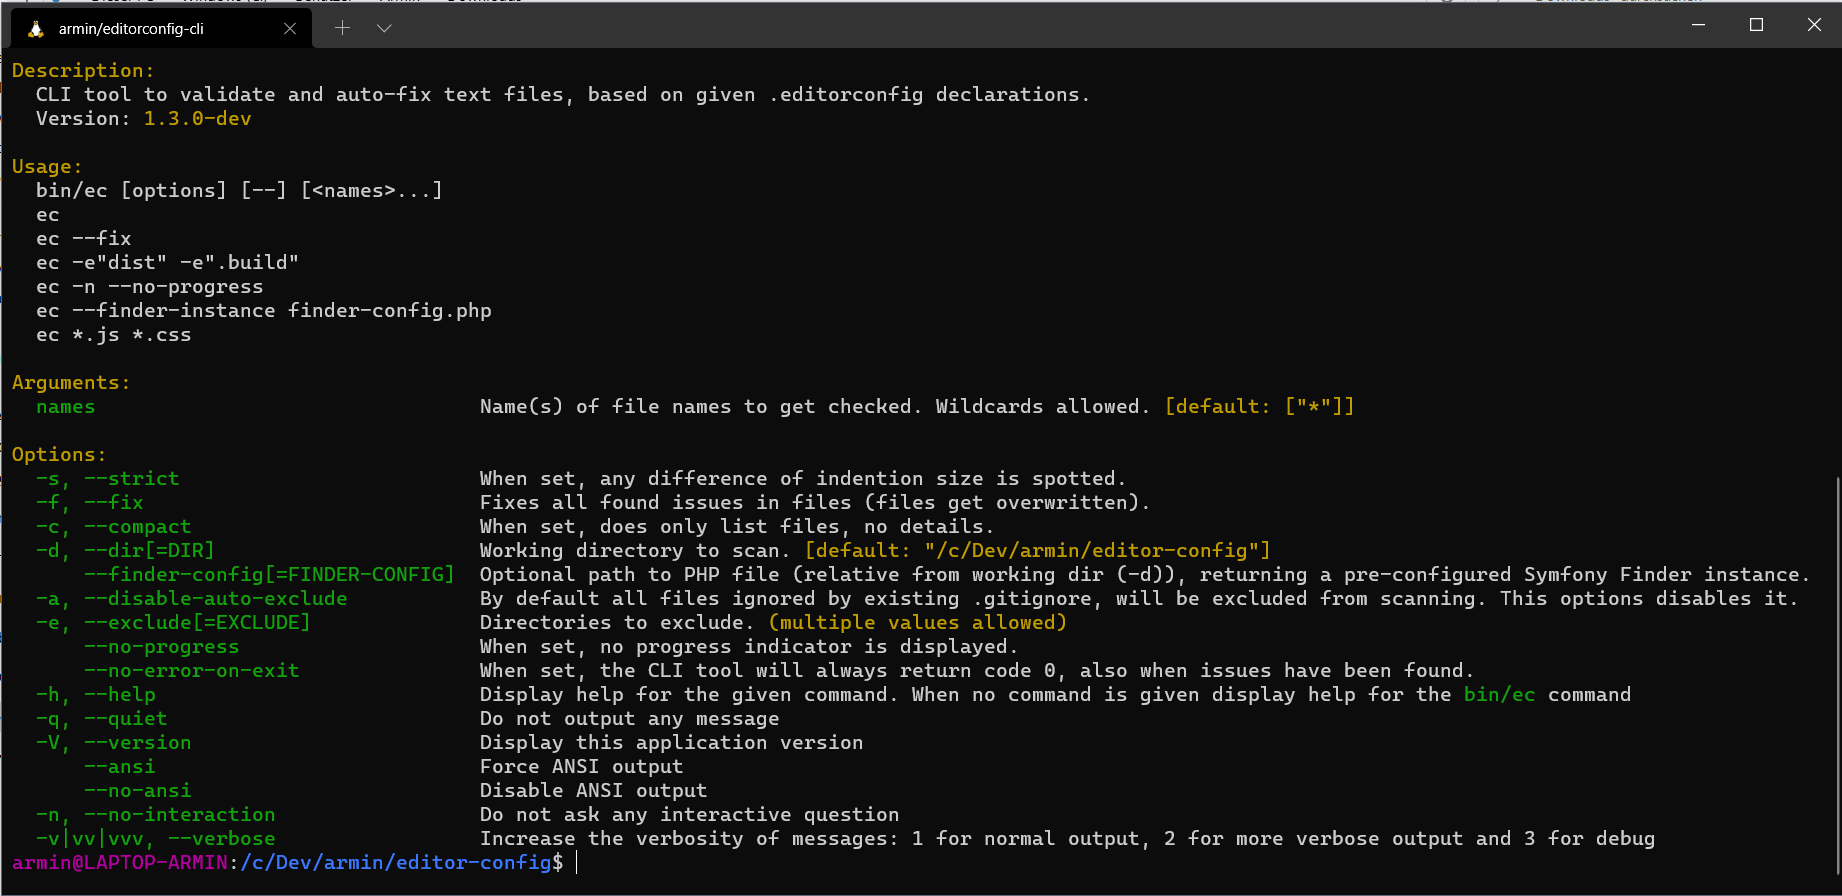
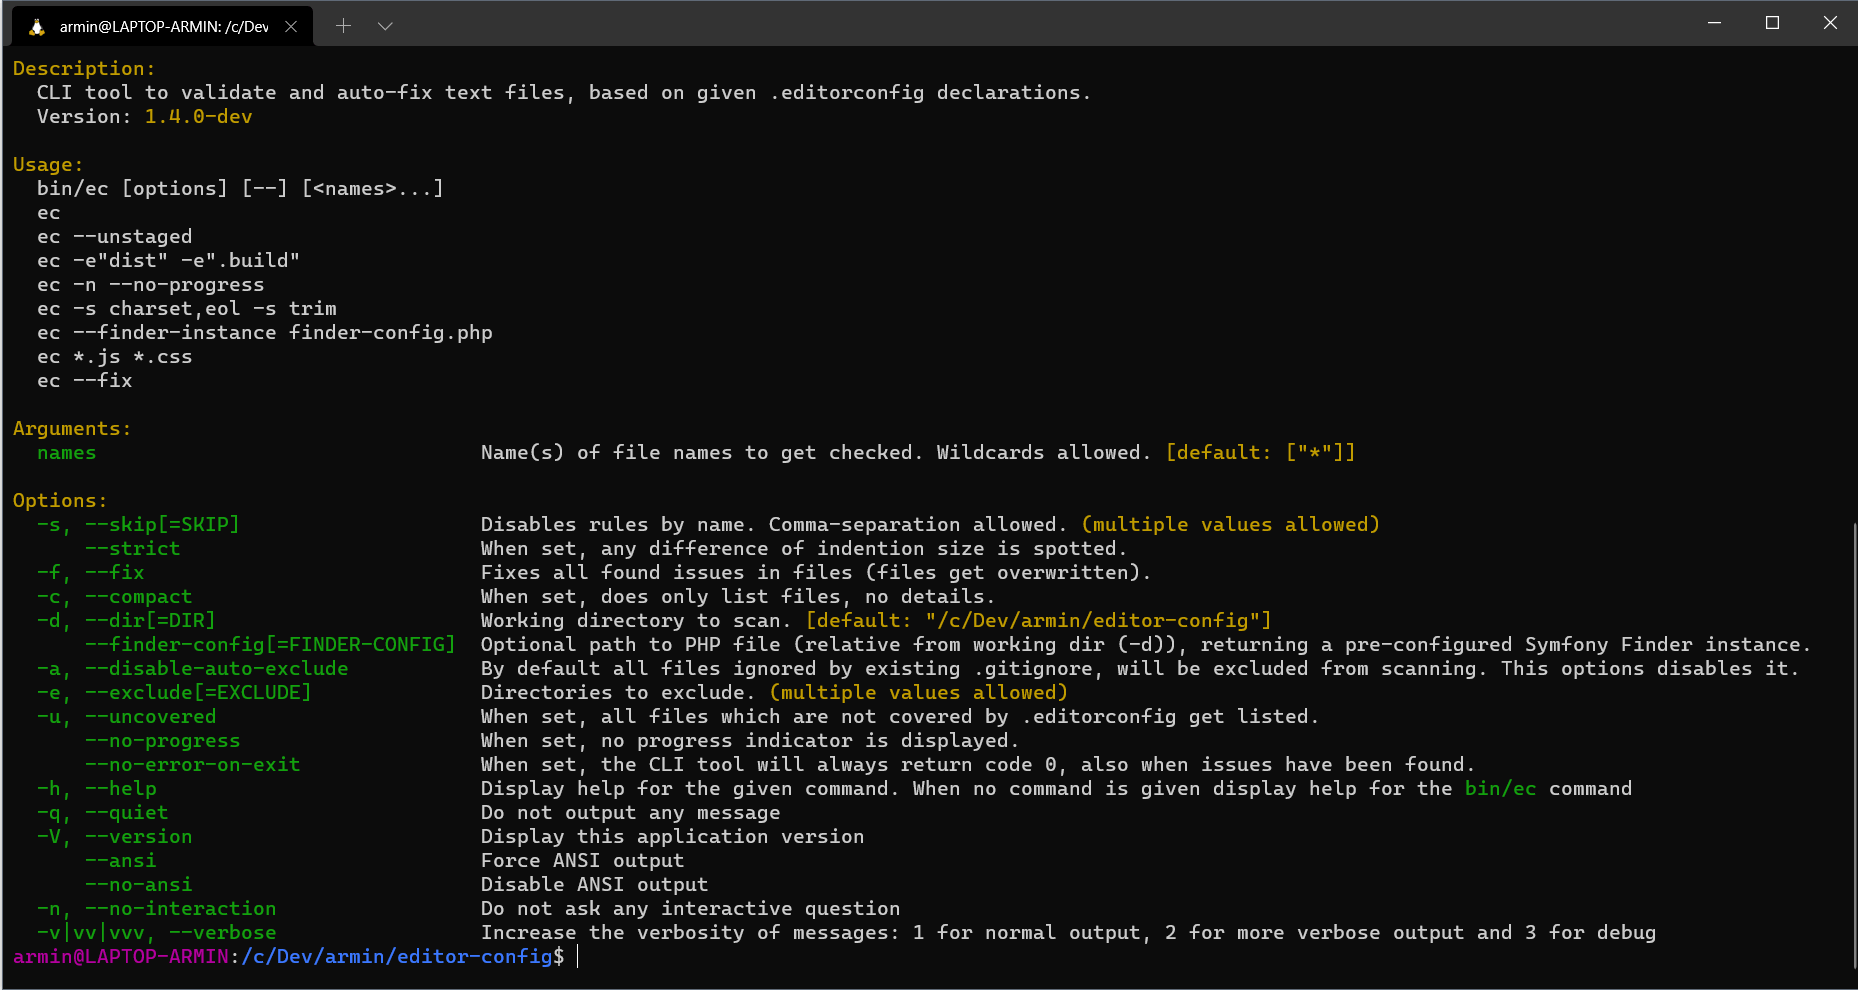
[DOCS] Update README

diff --git a/src/Application.php b/src/Application.php
@@ -38,7 +38,7 @@ class Application extends SingleCommandApplication
         $this
             ->setName('ec')
             ->setVersion(VersionUtility::getApplicationVersionFromComposerJson())
-            ->setDescription("CLI tool to validate and auto-fix text files, based on given .editorconfig declarations.\n  Version: <comment>" . VersionUtility::getApplicationVersionFromComposerJson() . '</comment>')
+            ->setDescription("CLI tool to validate and auto-fix text files, based on given .editorconfig declarations.\n  Version: <comment>" . VersionUtility::getApplicationVersionFromComposerJson() . '</comment>' . "\n  Written by: <comment>Armin Vieweg <https://v.ieweg.de></comment>")
             ->addUsage('ec')
             ->addUsage('ec --unstaged')
             ->addUsage('ec -e"dist" -e".build"')

diff --git a/README.md b/README.md
@@ -1,6 +1,11 @@
 # armin/editorconfig-cli
 
 CLI tool to validate and auto-fix text files, based on given .editorconfig declarations.
+This allows you to automatically ensure EditorConfig declarations during your CI processes.
+
+It is released under [MIT license](LICENSE).
+
+Written by **Armin Vieweg**  <<https://v.ieweg.de>>
 
 
 ## Requirements
@@ -11,7 +16,7 @@ CLI tool to validate and auto-fix text files, based on given .editorconfig decla
 
 ## Installation
 
-To install the editor-config CLI tool you need to download a handy PHAR executable,
+To install the editor-config CLI tool you need to [download a handy PHAR executable](https://github.com/a-r-m-i-n/editorconfig-cli/releases),
 or use Composer like this:
 
 ```
@@ -37,6 +42,18 @@ You'll find more info about syntax and features of EditorConfig on
 https://editorconfig.org
 
 
+### Screenshots
+
+This screenshot shows the help page you get when calling ``ec --help``:
+
+![Screenshot](docs/images/ec.png)
+
+
+Here you see two example runs:
+
+![Demo run](docs/images/ec-demo.gif)
+
+
 ## Features
 
 - Parsing .editorconfig file
@@ -59,13 +76,53 @@ https://editorconfig.org
 
 Composer style:
 ```
-$ vendor/bin/ec --help
+$ vendor/bin/ec [options] [--] [<names>...]
 ```
 
 PHAR style:
 ```
-$ php ec-1.3.0.phar --help
+$ php ec-1.4.0.phar [options] [--] [<names>...]
 ```
+
+**Scanning**
+
+When you do not enter any options, the scan starts immediately when calling ``ec`` PHP binary.
+
+**Fixing**
+
+To apply automatic fixes after scan append the ``--fix`` (or ``-f``) option.
+
+
+### Argument
+
+Name(s) of file names to get checked. Wildcards allowed. Default: ``['*']``
+
+With this you can only scan certain file types, e.g.
+
+```
+$ vendor/bin/ec *.css *.js *.html
+```
+
+
+### Options
+
+The ``ec`` binary supports the following options:
+
+| Option | Shortcut | Description |
+| ------ | -------- | ----------- |
+| ``--dir`` | ``-d`` | Define the directory to scan. By default, the current working directory is used. |
+| ``--exclude`` | ``-e`` | Directories to exclude from scan. Multiple values are allowed. |
+| ``--disable-auto-exclude`` | ``-a`` | Disables exclusion of files ignored by root .gitignore file (when given). |
+| ``--finder-config`` | | Allows to define a PHP file providing a custom Finder instance. [Read more](docs/CustomFinderInstance.md) |
+| ``--skip`` | ``-s`` | Disables rules by name. Multiple and comma-separated values are allowed. |
+| ``--strict`` | | When set, **any** difference of indention size is spotted. |
+| ``--compact`` | ``-s`` | Only shows only files with issues, not the issues itself.  |
+| ``--uncovered`` | ``-u`` | Lists all files which are not covered by .editorconfig. |
+| ``--verbose`` | ``-v`` | Shows additional informations. |
+| ``--no-interaction`` | ``-n`` | Do not ask for confirmation, if more than 500 files found. |
+| ``--no-error-on-exit`` | | By default ``ec`` returns code 2 when issues occurred. With this option set return code is always 0. |
+
+**Tip:** The "usage" section on ``ec``'s help page shows some examples.
 
 
 ### How it works
@@ -73,22 +130,10 @@ $ php ec-1.3.0.phar --help
 1. Counting all files in the given working directory (``-d``).
 2. If the amount of files is greater than 500, ask the user for confirmation to continue
    (use ``-n`` for non-interactive mode).
-3. Starting with scan (when ``--fix`` is **not** set). By default a visual activity indicator shows scanned files
-   (and highlights errors). You can disable this, with ``--no-progress``.
+3. Starting with scan (when ``--fix`` is **not** set). By default a progress indicator shows scanned files
+   (and shows amount of errors). You can disable this, with ``--no-progress``.
    When ``--fix`` (or ``-f``) is set, all found issues get fixed.
 4. It displays the results (to hide details of each file, you can enable the compact mode ``-c``).
-
-
-### Screenshot
-
-Here you see all arguments and options the ``ec`` CLI command provides:
-
-![Screenshot](docs/images/ec.png)
-
-
-### Arguments and options
-
-- Read more about using [Custom Finder instances](docs/CustomFinderInstance.md) (``--finder-config``)
 
 
 ## Dev notes
@@ -112,6 +157,15 @@ $ ddev composer run compile
 ```
 
 Note: In php.ini the option ``phar.readonly`` must be set to ``0``.
+
+
+## Support
+
+Do you have questions, issues or feature requests? Checkout the
+[issue tracker](https://github.com/a-r-m-i-n/editorconfig-cli/issues) on Github.
+
+If you like this project, you are invited to [donate some help](https://www.paypal.com/cgi-bin/webscr?cmd=_s-xclick&hosted_button_id=2DCCULSKFRZFU)
+to support further development. Thank you!
 
 
 ## Changelog
